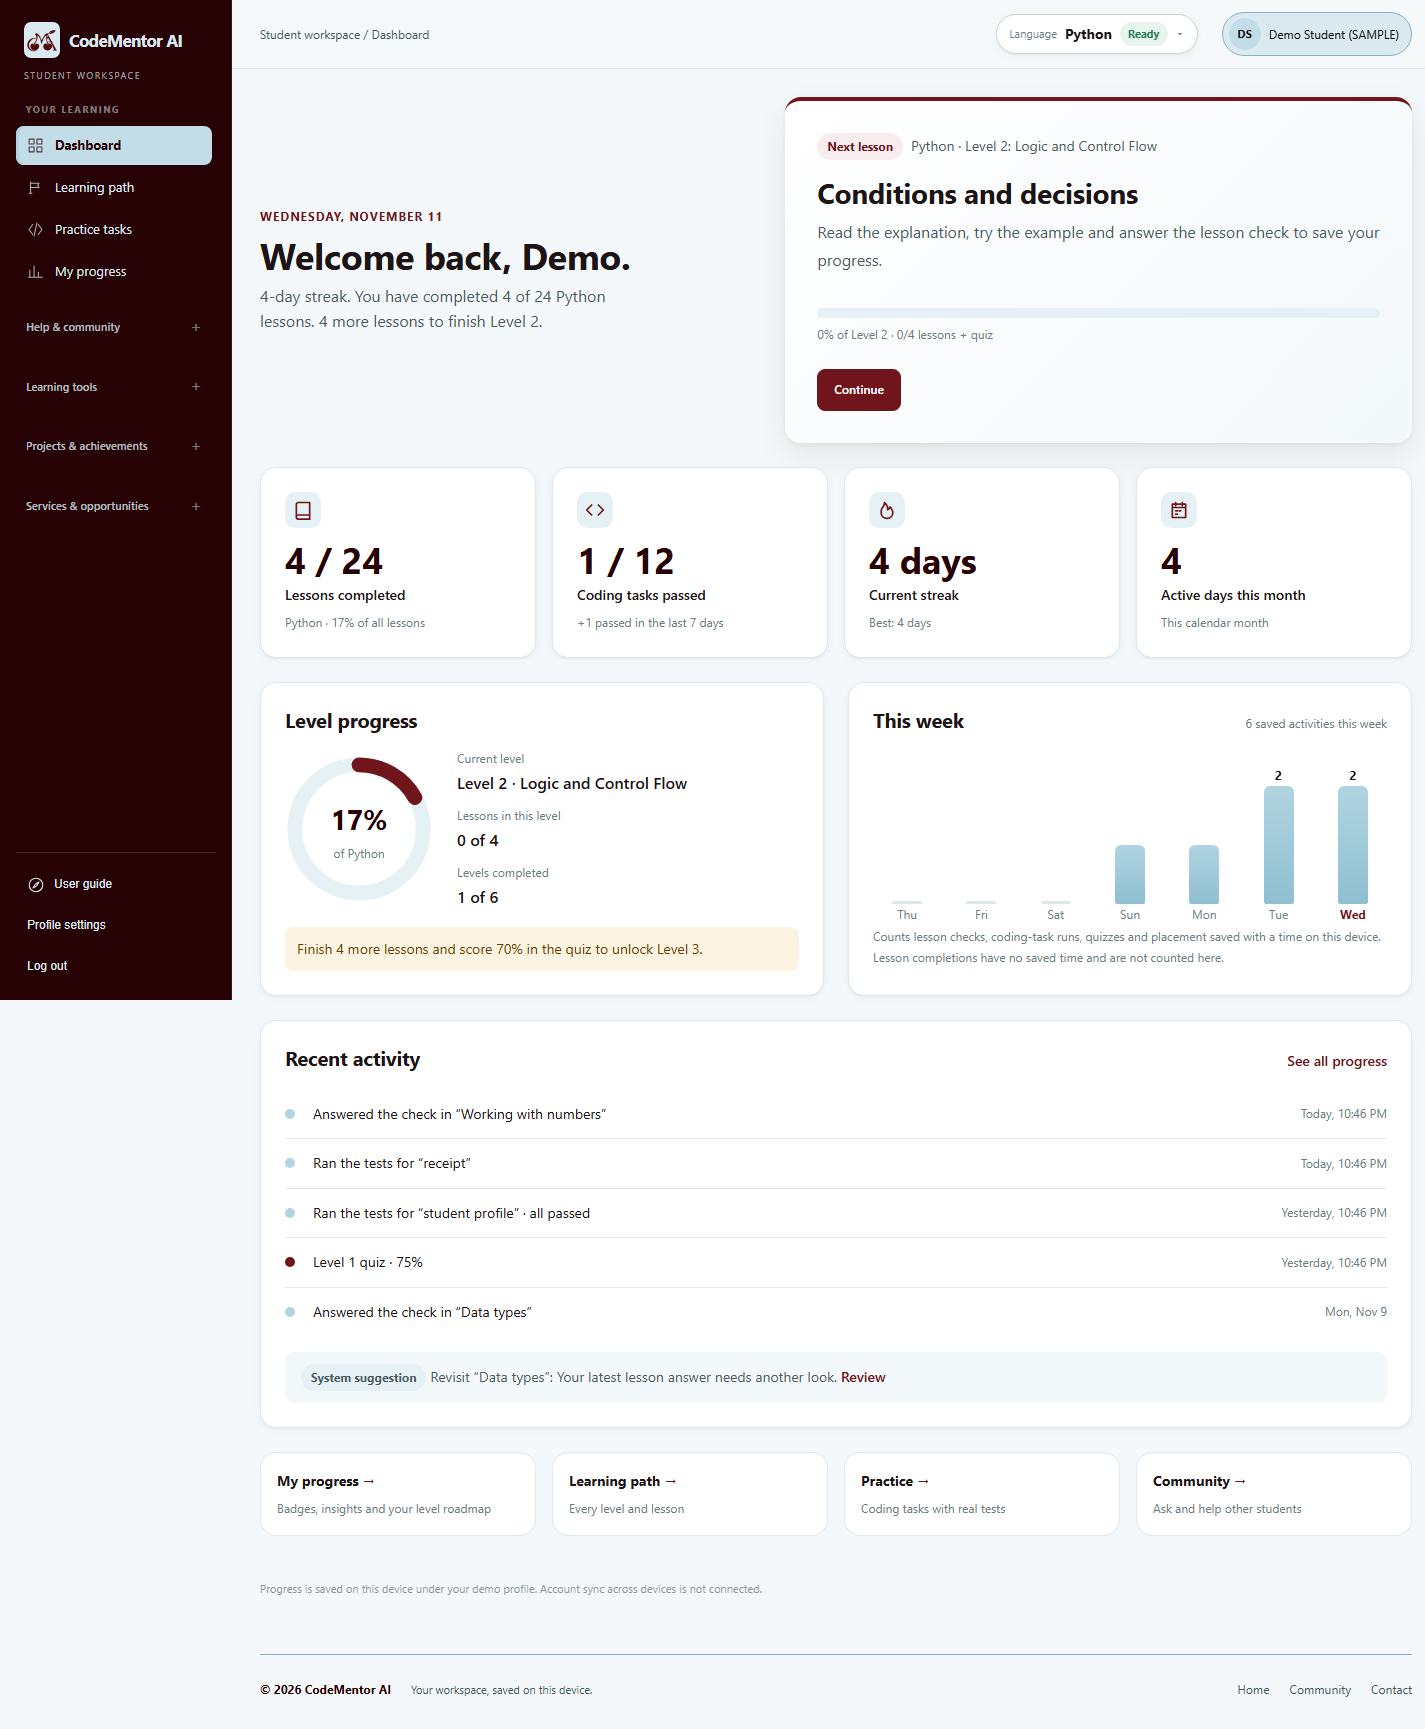
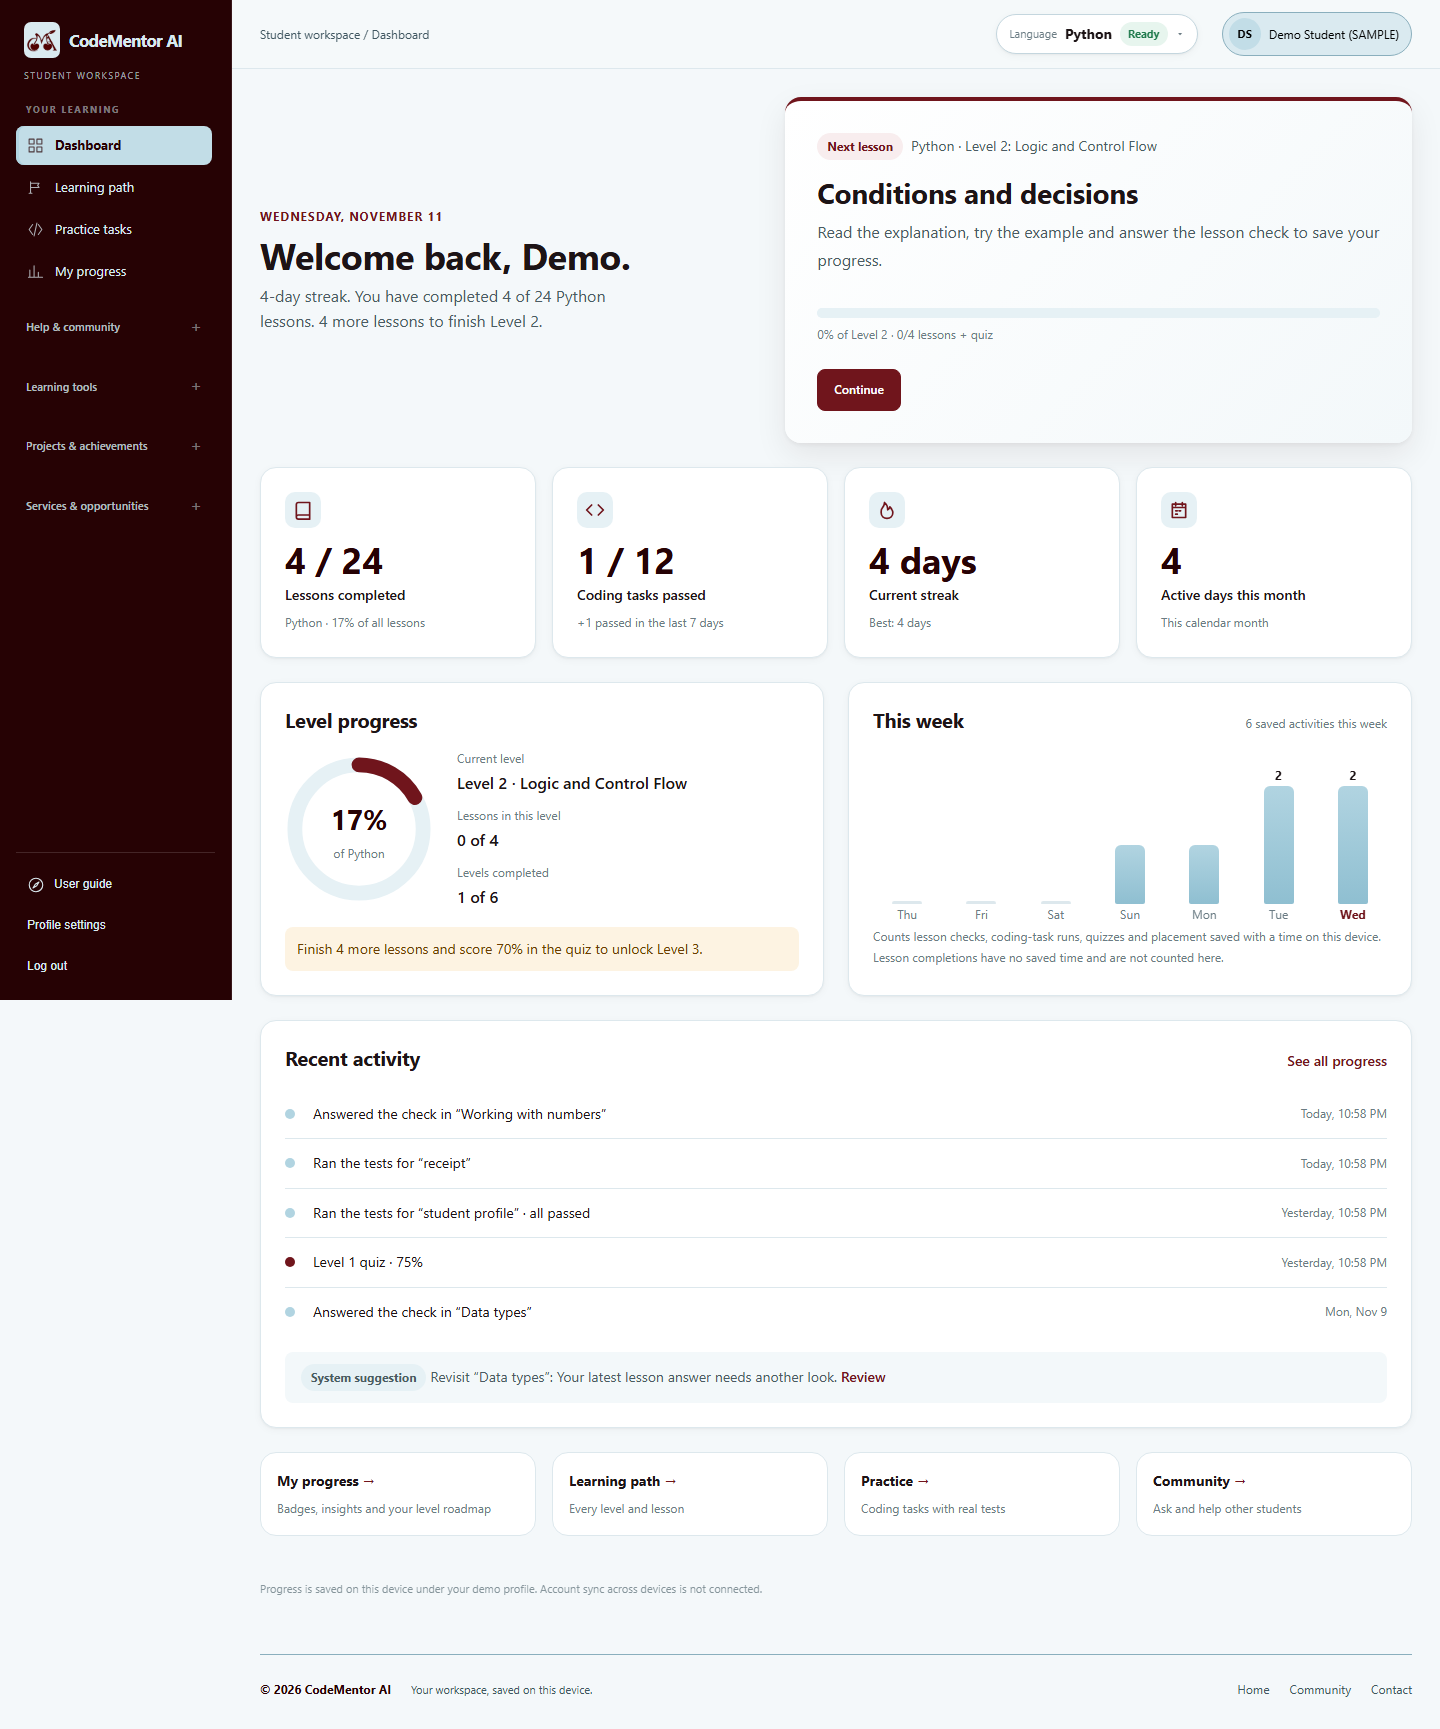
Tablet top bar fix, 1024/768 screenshots and follow-up verification notes
The top bar no longer wraps at <=900px (account pill shows initials only).
Screenshots added for 1024 and 768 px; docs record the learning-support
(22/22) and requests-dashboard (41/46) browser runs.

diff --git a/css/student-premium.css b/css/student-premium.css
@@ -275,6 +275,10 @@ dialog.lang-availability .button { margin: var(--cm-s1) var(--cm-s1) 0 0; }
     body.student-premium .workspace-main { padding: var(--cm-s3) var(--cm-s3) var(--cm-s5); }
     .sp-row { grid-template-columns: minmax(0, 1fr); }
     .workspace-sidebar .lang-switch { display: block; }
+    body.student-premium .workspace-topbar { flex-wrap: nowrap; }
+    body.student-premium .workspace-topbar-left { min-width: 0; }
+    body.student-premium .workspace-topbar-left > span { overflow: hidden; text-overflow: ellipsis; white-space: nowrap; }
+    body.student-premium .workspace-topbar .account-pill #account-name { display: none; }
 }
 @media (max-width: 600px) {
     body.student-premium .workspace-main { padding: var(--cm-s2) var(--cm-s2) var(--cm-s5); gap: var(--cm-s2); }

diff --git a/docs/DASHBOARD-REDESIGN.md b/docs/DASHBOARD-REDESIGN.md
@@ -108,7 +108,7 @@ Motion is limited to the ring, bars and badge shine on first render, plus a hove
 
 ## Verification
 
-**Node:** `node tools/verify-local.cjs` passed 301 assertions in 16 suites. The new `tests/dashboard-redesign.cjs` has 18 checks covering:
+**Node:** `node tools/verify-local.cjs` passed 302 assertions in 16 suites. The new `tests/dashboard-redesign.cjs` has 19 checks covering:
 
 - KPI values and ring percentage
 - achievement rules
@@ -117,8 +117,9 @@ Motion is limited to the ring, bars and badge shine on first render, plus a hove
 - placed-out exclusion
 - exactly one "Continue"
 - the switcher's keyboard, ARIA, toast and availability behaviour, and a stale-account guard
+- a clear error state when saved preferences are unreadable (previously the dashboard script threw)
 
-**Browser (headless Chrome, normal permissions):** `tests/dashboard-redesign-browser.ps1 -Phase after` passed all 21 checks:
+**Browser (headless Chrome, normal permissions):** `tests/dashboard-redesign-browser.ps1 -Phase after` passed all 21 checks. Screenshots exist for 1440, 1024, 768 and 390 px.
 
 - no horizontal scroll at 1440, 1024, 768 and 390 px on both pages
 - one Continue
@@ -136,5 +137,12 @@ Motion is limited to the ring, bars and badge shine on first render, plus a hove
 1. Screen-reader announcement of the switcher and of the toast.
 2. Real touch interaction with the drawer switcher at 390 px.
 3. Hover tooltips with a mouse.
-4. Visual review at 1024 and 768 px. Only overflow was checked automatically; screenshots exist for 1440 and 390.
-5. The HTML suites `requests-dashboard.html` and `learning-support` were updated for the moved IDs but not rerun. The README notes several historical HTML suites already fail.
+
+**Follow-up browser runs (12 November):**
+
+- `tests/learning-support.ps1` (needs a server on port 8879): all 22 checks passed, including topics to revisit on My progress.
+- `requests-dashboard.html` via `verify-structure.ps1` (server on 8765): **41 of 46** passed, and the suite now runs to the end.
+  - For comparison, the commit just before the redesign (`78546b6`) scored 23 of 27 and stopped at the Rust check.
+  - Two outdated expectations were updated. A coming-soon language shows the honest availability page (the behaviour since Phase 1). A visitor without a session is redirected to sign-in by the access guard.
+  - The 5 remaining failures also failed on 11 November, before this work: guest request history, empty states on the requests page, and three next-action routing expectations ("quiz before practice task", "send new students to placement first", "resume placement"). Routing was left unchanged pending a product decision.
+  - Its link check found 0 missing links. Three JavaScript errors remain, from older scripts (`placement-data.js`, `python-curriculum.js`, `learning-support.js`) when saved preferences are corrupt.
